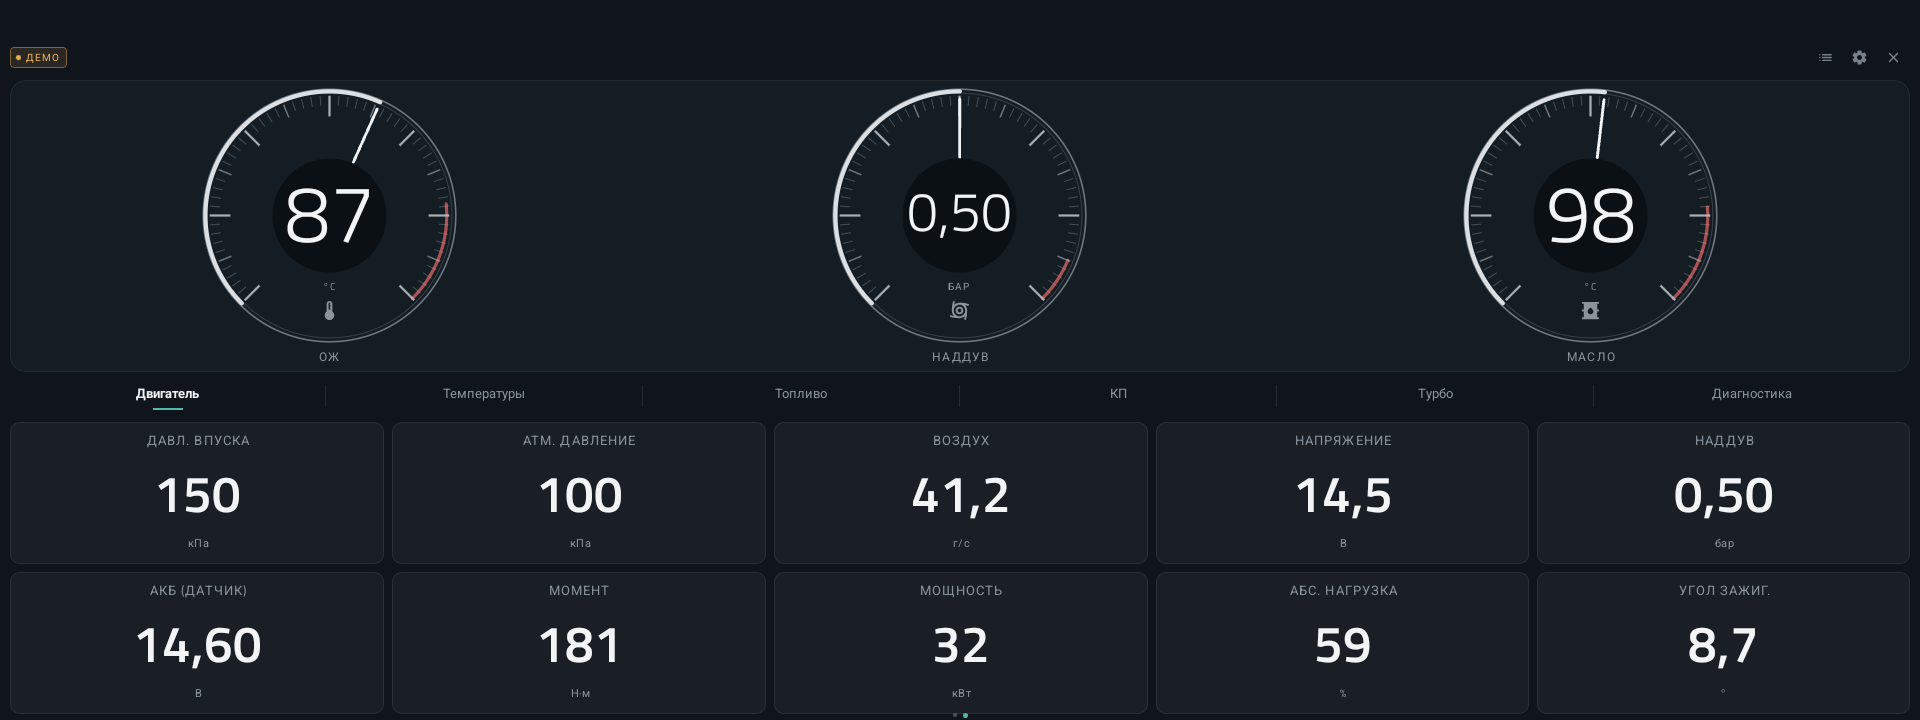
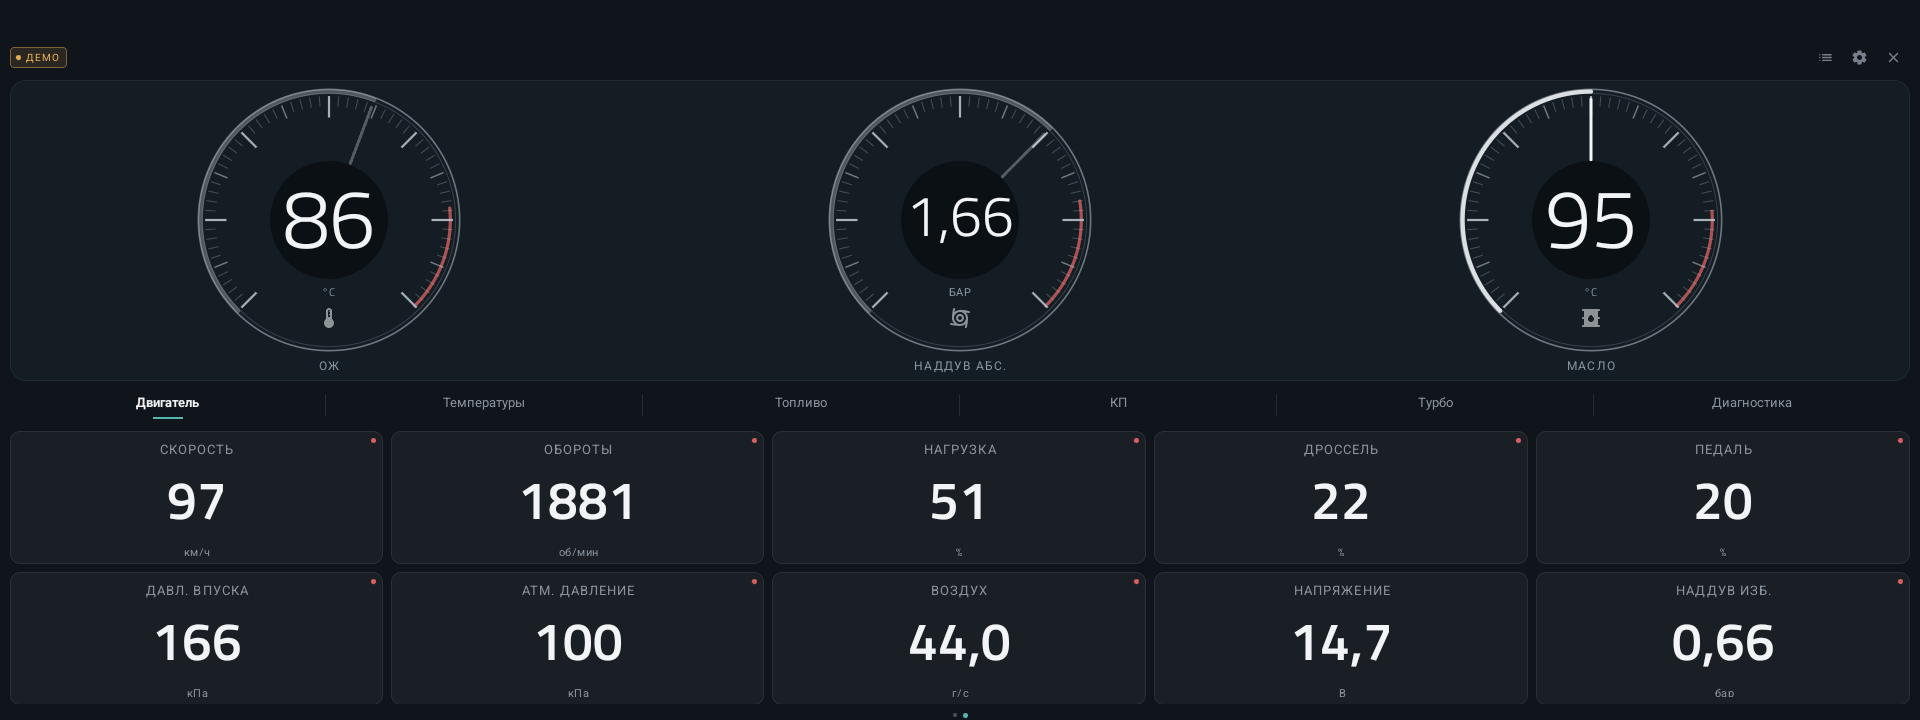
docs: real 0.6.3 screenshots and release hashes

diff --git a/README.md b/README.md
@@ -106,10 +106,6 @@ the dashboard always opens first.
 
 ## Android Auto
 
-<p align="center">
-  <img src="docs/assets/android-auto.png" width="100%" alt="Mockup of the VAG Performance Monitor ListTemplate screen with status and signal rows">
-</p>
-
 <p align="center"><sub>Mockup of the actual <code>ListTemplate</code> composition, not a head-unit screenshot. A real screenshot is not available: the emulator ships stub Android Auto, and neither DHU nor a head unit was tested.</sub></p>
 
 Android Auto is a separate **`aa`** build, not a mode of the standard one. It replaces `standard`
@@ -129,10 +125,6 @@ Android Auto is a separate **`aa`** build, not a mode of the standard one. It re
 More: [docs/AA.md](docs/AA.md) and [docs/AARE_DASHGRID.md](docs/AARE_DASHGRID.md).
 
 ## One telemetry — three surfaces
-
-<p align="center">
-  <img src="docs/assets/surfaces.svg" alt="0.6.2 mockup of three surfaces: dashboard, widget and Android Auto" width="100%">
-</p>
 
 <p align="center"><sub>A mockup, not screenshots: the dashboard, widget and car screen read one state.</sub></p>
 
@@ -263,8 +255,8 @@ adb install -r VAG-Performance-Monitor-0.6.3-AA.apk
 <summary>SHA-256 and signing certificate</summary>
 
 ```text
-943a7d9230f4f81032c85a3c733554ede069591ef1dc4b067480885a39c864dc  VAG-Performance-Monitor-0.6.3-standard.apk
-2515cc95ef991b44d620f8333a6a08047c07a68a9fc09696cf73291d5fe8be2e  VAG-Performance-Monitor-0.6.3-AA.apk
+9d31789582ee220074ddc9ec99726e70bba8c462bb849c2b6e67775b3c454271  VAG-Performance-Monitor-0.6.3-standard.apk
+297ea8d8b28e4e071d6ff84bdede71da113e5f43589f9b3bdceec658ef08840d  VAG-Performance-Monitor-0.6.3-AA.apk
 certificate SHA-256: 2a143c3b8facd71e3d2340343fa675504b2d547361de71c01f3e560f926e23ea
 ```
 
